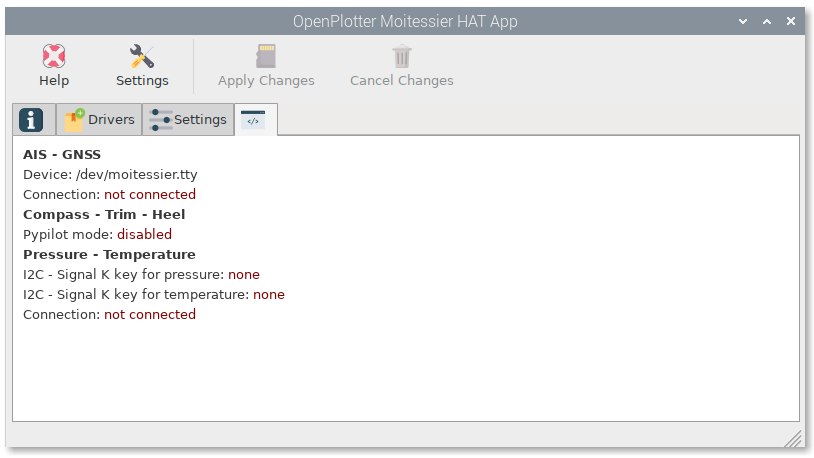
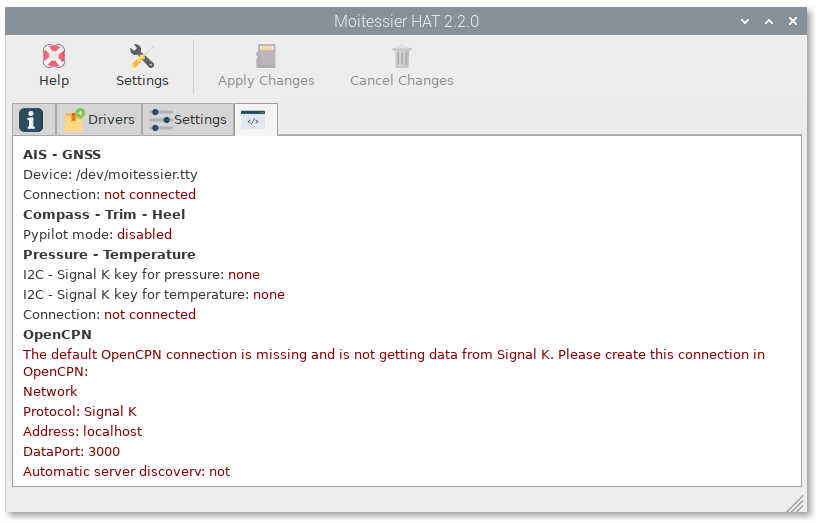
update moitessier configuration

Changed region(s): [[0.0, 0.0, 1.0, 0.9782]]

diff --git a/moitessier/configuration.rst b/moitessier/configuration.rst
@@ -56,10 +56,10 @@ Now you are ready to configure your system. Go to ``Info`` tab and click on ``Ch
 
 .. image:: img/gps1.png
 
+.. image:: img/gps2.png
+
 Configuring AIS and GNSS reception
 **********************************
-
-.. image:: img/gps2.png
 
 Go to ``Serial`` app and select the HAT from the the list of detected devices in ``Devices`` tab. Provide a short ``alias`` and select NMEA 0183 as the format of the expected ``data``. Finally click ``Apply``:
 
@@ -74,22 +74,12 @@ Go to ``Connections`` tab, select the HAT from the list, click on ``Add to Signa
 .. note::
 	If you are going to use an autopilot you should select ``Add to Pypilot`` and finally connect pypilot to ``Signal K``. See :ref:`pypilot<pypilot>` chapter for details.
 
-When the serial connection with our HAT has been created, ``Signal K`` will send the received NMEA 0183 data to any program connected to the network connection below.
+Go to ``Info`` tab and click on ``Check configuration`` again to see the changes:
 
-+------------+------------+-----------+
-|  Protocol  |   Address  |   Port    |
-+============+============+===========+
-|    TCP     |  localhost |   10110   |
-+------------+------------+-----------+
-
-Be sure this connection exists in OpenCPN and you are done. You should get position and AIS targets:
-
-.. image:: img/gps5.jpg
+.. image:: img/gps4bis2.png
 
 Configuring compass, heel and trim reception
 ********************************************
-
-.. image:: img/compass1.png
 
 Go to ``Pypilot`` app an select ``Only compass``.
 
@@ -102,33 +92,15 @@ Then go to ``connections``, select the available connection and click on ``Add c
 
 .. image:: img/compass3.png
 
-If you select ``Only compass`` pypilot generates heading, pitch and heel data in Signal K format. If we want to send these data to OpenCPN we need to convert it into NMEA 0183. Go to ``Signal K server`` and ``login`` (upper right). Go to ``Server`` > ``Plugin Config`` in the left menu. Click on ``Convert Singnal K to NMEA 0183`` and check ``active`` and ``HDM - Heading Magnetic``.
-
-.. image:: img/compass4.png
-
-Scroll down, check ``XDR - (PTCH-ROLL) - Pitch and Roll`` and click on ``Submit``.
-
-.. image:: img/compass5.png
-
-Signal K server will start sending the NMEA 0183 data to any program connected to the network connection below.
-
-+------------+------------+-----------+
-|  Protocol  |   Address  |   Port    |
-+============+============+===========+
-|    TCP     |  localhost |   10110   |
-+------------+------------+-----------+
-
-Be sure this connection exists in OpenCPN and you are done.
-
-.. image:: img/compass6.png
-
 .. important::
 	To get reliable heading readings you have to calibrate the compass following the steps of the :ref:`Pypilot compass calibration<calibration>` chapter.
 
+Go to ``Info`` tab and click on ``Check configuration`` again to see the changes:
+
+.. image:: img/compass4.png
+
 Configuring pressure reception
 ******************************
-
-.. image:: img/pressure1.png
 
 Go to ``Sensors`` tab in ``I2C`` app an click ``Add``.
 
@@ -158,18 +130,31 @@ Go to ``Connections`` tab, select ``MS5607-02BA03`` sensor and click in either `
 
 .. image:: img/pressure8.png
 
-``I2C`` app generates data in Signal K format. If we want to send pressure data to OpenCPN we need to convert it into NMEA 0183. Go to ``Signal K server`` and ``login`` (upper right). Go to ``Server`` > ``Plugin Config`` in the left menu. Click on ``Convert Singnal K to NMEA 0183``, check ``XDR (Barometer) - Atmospheric Pressure`` and press ``Submit``.
+Go to ``Info`` tab and click on ``Check configuration`` again to see the changes:
 
 .. image:: img/pressure9.png
 
-Signal K server will start sending the NMEA 0183 data to any program connected to the network connection below.
+Configuring OpenCPN
+*******************
 
-+------------+------------+-----------+
-|  Protocol  |   Address  |   Port    |
-+============+============+===========+
-|    TCP     |  localhost |   10110   |
-+------------+------------+-----------+
+As of version 5.2, OpenCPN can manage Signal K data, so we no longer need to convert Signal K data to NMEA 0183. You just need to create this connection in OpenCPN:
 
-Be sure this connection exists in OpenCPN and you are done.
+.. image:: img/opencpn1.png
 
-.. image:: img/pressure10.png
+The default port of the Signal K server is 3000, but you can change it. If you are not sure which port you have configured, go to the ``Signal K Installer`` app to check.
+
+.. figure:: img/compass6.png
+
+	Magnetic Heading (circle), Course Over Ground (square)
+
+.. figure:: img/pressure10.png
+
+	Heel, Pitch and Pressure
+
+.. figure:: img/gps5.jpg
+
+	AIS
+
+Go to ``Info`` tab and click on ``Check configuration`` again to see the changes:
+
+.. image:: img/opencpn2.png

diff --git a/index.rst b/index.rst
@@ -90,7 +90,7 @@ Welcome to OpenPlotter's documentation!
 
 .. toctree::
    :maxdepth: 1
-   :caption: Moitessier HAT - 2.1.2
+   :caption: Moitessier HAT - 2.2.0
    :name: sec-moitessier
 
    moitessier/moitessier_app
